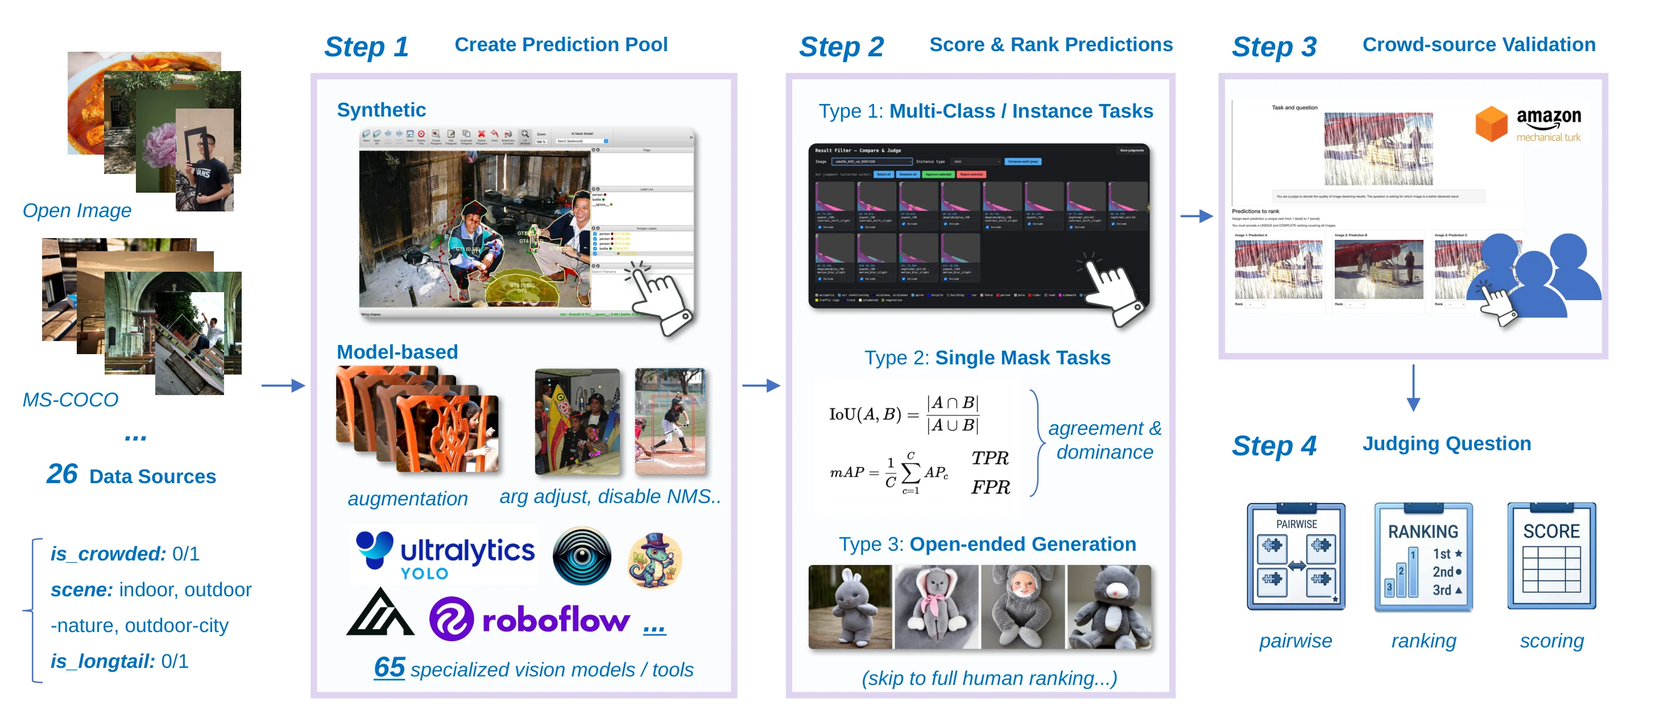
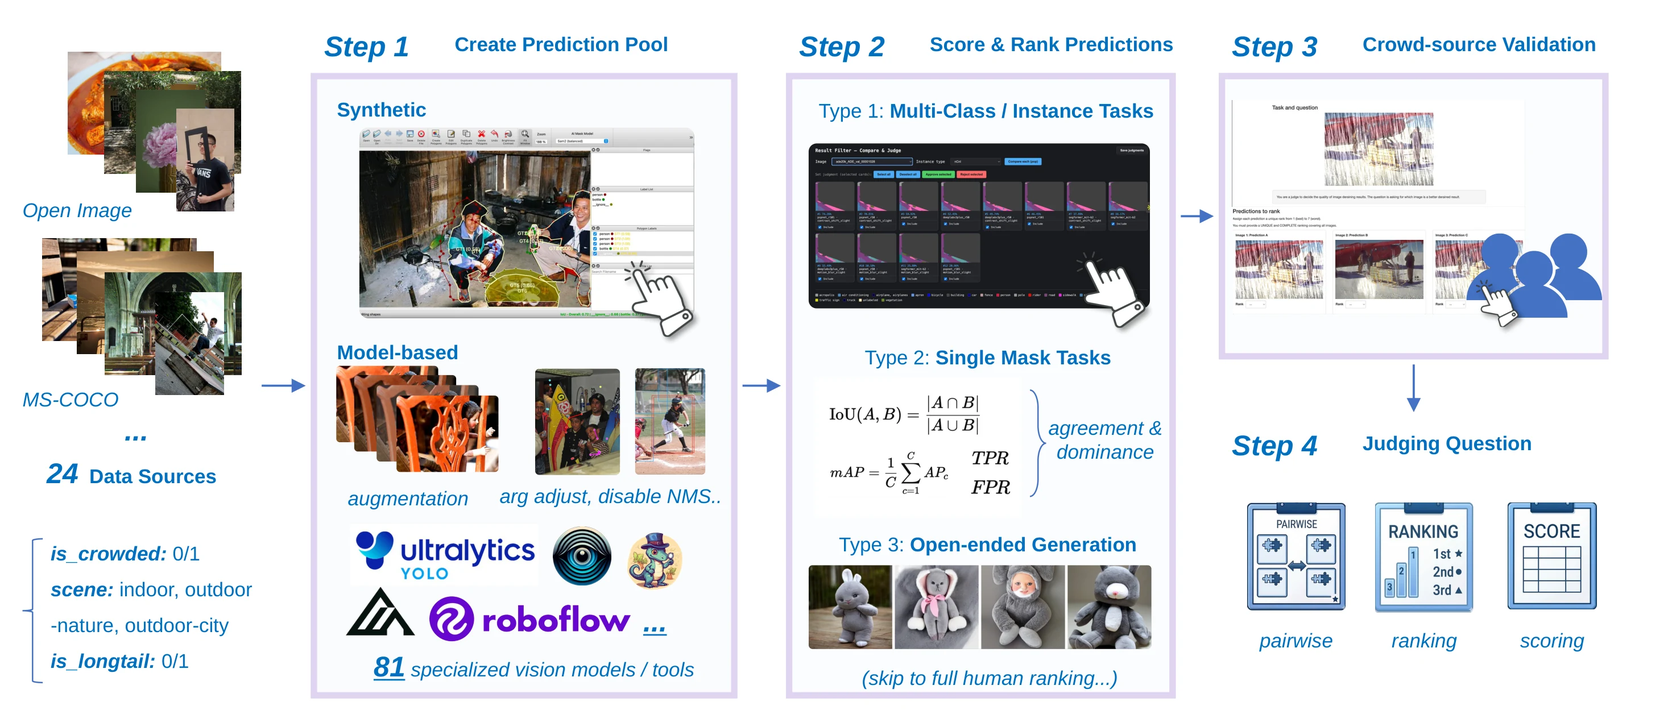
Update results, counts and figures to the current paper: 33 judges, 39 encodings, 1,750 instances / 5,259 candidates / 1,302 images / 24 datasets, encoding order from the 11-judge encoding analysis, agent findings, pipeline figure

diff --git a/assets/results.js b/assets/results.js
@@ -1,85 +1,74 @@
-// Numbers transcribed from the paper (Table 3/13, Figure 5-7, Table 4-6, Table 14).
+// Numbers from the paper: leaderboard table (judge-analysis subset, 33 judges), Vision-Judge vs CV-Bench-with-tools correlation
+// (10 SpAgent controllers), Table S5 (task coverage, v5 release), encoding-ranking figure (encoding-analysis subset, 11 judges).
 window.VJ_RESULTS = {
   cols: ['All', 'Det.', 'I-Seg', 'S-Seg', 'R-Seg', 'Kpt.', 'Depth', 'Gen.', 'Low-lvl'],
   leaderboard: [
-    ['Gemini 3.1 Pro', 'api', [0.734, 0.747, 0.694, 0.789, 0.742, 0.715, 0.516, 0.800, 0.768]],
-    ['Gemini 2.5 Pro', 'api', [0.711, 0.701, 0.703, 0.728, 0.759, 0.688, 0.508, 0.724, 0.706]],
-    ['GPT-5.4', 'api', [0.682, 0.799, 0.644, 0.670, 0.694, 0.598, 0.524, 0.763, 0.742]],
-    ['Qwen2.5-VL-72B', 'open', [0.662, 0.705, 0.573, 0.667, 0.686, 0.644, 0.587, 0.730, 0.773]],
-    ['Qwen2.5-VL-32B', 'open', [0.651, 0.628, 0.610, 0.631, 0.698, 0.633, 0.460, 0.770, 0.706]],
-    ['Gemini 2.5 Flash', 'api', [0.650, 0.658, 0.566, 0.656, 0.677, 0.628, 0.613, 0.743, 0.767]],
-    ['Claude Sonnet 4.6', 'api', [0.642, 0.656, 0.713, 0.742, 0.584, 0.617, 0.556, 0.651, 0.510]],
-    ['Claude Sonnet 4.5', 'api', [0.602, 0.590, 0.585, 0.616, 0.627, 0.622, 0.492, 0.625, 0.562]],
-    ['Qwen3-VL-8B', 'open', [0.597, 0.708, 0.591, 0.466, 0.580, 0.560, 0.524, 0.717, 0.686]],
-    ['Qwen3-VL-8B-Thinking', 'open', [0.585, 0.580, 0.575, 0.631, 0.533, 0.541, 0.429, 0.737, 0.701]],
-    ['Qwen2.5-VL-7B', 'open', [0.585, 0.594, 0.593, 0.577, 0.571, 0.508, 0.492, 0.664, 0.706]],
-    ['Qwen2-VL-2B', 'open', [0.579, 0.573, 0.642, 0.624, 0.527, 0.516, 0.460, 0.632, 0.603]],
-    ['Qwen2.5-VL-3B', 'open', [0.578, 0.521, 0.632, 0.649, 0.545, 0.454, 0.429, 0.757, 0.644]],
-    ['InternVL3-8B', 'open', [0.557, 0.597, 0.559, 0.507, 0.522, 0.522, 0.476, 0.684, 0.644]],
-    ['LLaVA-OneVision-7B-OV', 'open', [0.557, 0.608, 0.591, 0.570, 0.616, 0.465, 0.524, 0.441, 0.500]],
-    ['Qwen2-VL-7B', 'open', [0.553, 0.646, 0.530, 0.459, 0.524, 0.489, 0.508, 0.711, 0.696]],
-    ['Mantis-8B', 'open', [0.552, 0.556, 0.596, 0.516, 0.551, 0.473, 0.413, 0.553, 0.680]],
-    ['Gemini 2.5 Flash-Lite', 'api', [0.552, 0.545, 0.515, 0.543, 0.554, 0.557, 0.524, 0.612, 0.620]],
-    ['LLaVA-OneVision-0.5B-SI', 'open', [0.552, 0.472, 0.624, 0.634, 0.576, 0.465, 0.429, 0.572, 0.490]],
-    ['LLaVA-OneVision-0.5B-OV', 'open', [0.547, 0.503, 0.600, 0.616, 0.557, 0.514, 0.587, 0.395, 0.521]],
-    ['Janus-Pro-7B', 'open', [0.547, 0.503, 0.603, 0.655, 0.549, 0.439, 0.444, 0.645, 0.500]],
-    ['InternVL3.5-8B', 'open', [0.544, 0.510, 0.533, 0.548, 0.547, 0.495, 0.460, 0.638, 0.655]],
-    ['Phi-4-multimodal', 'open', [0.536, 0.569, 0.648, 0.541, 0.588, 0.389, 0.429, 0.500, 0.402]],
-    ['InternVL-Chat-V1.1', 'open', [0.536, 0.556, 0.555, 0.588, 0.571, 0.410, 0.444, 0.592, 0.515]],
-    ['Janus-1.3B', 'open', [0.534, 0.493, 0.557, 0.632, 0.545, 0.474, 0.429, 0.612, 0.474]],
-    ['InternVL3.5-1B', 'open', [0.529, 0.507, 0.551, 0.487, 0.576, 0.465, 0.476, 0.605, 0.531]],
-    ['JanusFlow-1.3B', 'open', [0.527, 0.521, 0.573, 0.562, 0.524, 0.526, 0.429, 0.454, 0.485]],
-    ['Claude Haiku 4.5', 'api', [0.524, 0.545, 0.520, 0.563, 0.537, 0.492, 0.460, 0.526, 0.500]],
-    ['LLaVA-NeXT-Interleave-0.5B', 'open', [0.518, 0.531, 0.533, 0.545, 0.534, 0.462, 0.413, 0.533, 0.515]],
-    ['Cambrian-8B', 'open', [0.513, 0.500, 0.584, 0.385, 0.527, 0.490, 0.516, 0.540, 0.521]],
-    ['Janus-Pro-1B', 'open', [0.511, 0.497, 0.502, 0.584, 0.527, 0.478, 0.460, 0.546, 0.474]],
-    ['LLaVA-OneVision-7B-SI', 'open', [0.509, 0.594, 0.551, 0.430, 0.514, 0.476, 0.571, 0.408, 0.500]],
-    ['LLaVA-NeXT-Interleave-7B', 'open', [0.505, 0.535, 0.470, 0.430, 0.469, 0.476, 0.556, 0.730, 0.608]],
-    ['InternVL3-2B', 'open', [0.499, 0.573, 0.520, 0.387, 0.447, 0.465, 0.540, 0.638, 0.572]],
-    ['InternVL3-1B', 'open', [0.498, 0.443, 0.492, 0.416, 0.545, 0.508, 0.429, 0.664, 0.469]],
-    ['LLaVA-NeXT-Interleave-7B-DPO', 'open', [0.477, 0.545, 0.402, 0.387, 0.449, 0.465, 0.508, 0.684, 0.624]],
+    ["Gemini 3.8 Flash", 'api', [0.866, 0.867, 0.934, 0.888, 0.884, 0.852, 0.838, 0.898, 0.771]],
+    ["Gemini 3.1 Pro", 'api', [0.827, 0.833, 0.877, 0.884, 0.842, 0.753, 0.811, 0.854, 0.765]],
+    ["Gemini 3.5 Flash-Lite", 'api', [0.759, 0.733, 0.803, 0.763, 0.741, 0.679, 0.838, 0.840, 0.673]],
+    ["Qwen3.5 27B", 'open', [0.710, 0.650, 0.738, 0.667, 0.760, 0.642, 0.730, 0.806, 0.686]],
+    ["Qwen3-VL 32B", 'open', [0.700, 0.683, 0.689, 0.622, 0.623, 0.679, 0.784, 0.820, 0.699]],
+    ["Qwen2.5-VL 72B", 'open', [0.679, 0.667, 0.672, 0.590, 0.580, 0.617, 0.730, 0.820, 0.758]],
+    ["Qwen2.5-VL 32B", 'open', [0.666, 0.667, 0.648, 0.582, 0.609, 0.593, 0.784, 0.762, 0.680]],
+    ["Qwen3.5 35B-A3B", 'open', [0.664, 0.650, 0.689, 0.586, 0.657, 0.556, 0.757, 0.728, 0.693]],
+    ["Ovis2.5-9B", 'open', [0.663, 0.633, 0.705, 0.602, 0.602, 0.543, 0.784, 0.772, 0.667]],
+    ["Qwen3.5 9B", 'open', [0.649, 0.583, 0.648, 0.542, 0.591, 0.642, 0.730, 0.772, 0.686]],
+    ["Gemma 3 27B", 'open', [0.643, 0.583, 0.639, 0.550, 0.567, 0.605, 0.784, 0.786, 0.627]],
+    ["Qwen3.5 4B", 'open', [0.637, 0.650, 0.607, 0.562, 0.530, 0.630, 0.649, 0.772, 0.699]],
+    ["Gemma 3 12B", 'open', [0.631, 0.567, 0.541, 0.574, 0.551, 0.654, 0.757, 0.733, 0.673]],
+    ["Qwen3-VL 8B", 'open', [0.626, 0.483, 0.648, 0.574, 0.567, 0.593, 0.757, 0.762, 0.627]],
+    ["Qwen2.5-VL 7B", 'open', [0.624, 0.483, 0.566, 0.490, 0.536, 0.617, 0.838, 0.699, 0.765]],
+    ["MiniCPM-V 4.5", 'open', [0.620, 0.550, 0.590, 0.498, 0.565, 0.679, 0.730, 0.709, 0.641]],
+    ["Qwen3-VL 4B", 'open', [0.620, 0.567, 0.615, 0.538, 0.491, 0.593, 0.784, 0.733, 0.641]],
+    ["Qwen3-VL 30B-A3B", 'open', [0.617, 0.567, 0.590, 0.514, 0.586, 0.519, 0.703, 0.801, 0.654]],
+    ["Kimi-VL-A3B", 'open', [0.609, 0.583, 0.566, 0.502, 0.533, 0.506, 0.865, 0.699, 0.614]],
+    ["Qwen2-VL-7B", 'open', [0.605, 0.583, 0.516, 0.502, 0.485, 0.568, 0.811, 0.684, 0.693]],
+    ["LLaVA-OneVision 1.5-8B", 'open', [0.589, 0.500, 0.590, 0.546, 0.509, 0.519, 0.784, 0.689, 0.575]],
+    ["InternVL3.5 4B", 'open', [0.573, 0.517, 0.582, 0.546, 0.546, 0.568, 0.514, 0.680, 0.634]],
+    ["Qwen2.5-VL 3B", 'open', [0.548, 0.567, 0.525, 0.502, 0.488, 0.506, 0.541, 0.665, 0.595]],
+    ["Qwen3.5 2B", 'open', [0.548, 0.417, 0.631, 0.502, 0.546, 0.519, 0.595, 0.617, 0.556]],
+    ["LLaVA-NeXT-Interleave-7B", 'open', [0.547, 0.517, 0.500, 0.482, 0.478, 0.481, 0.730, 0.670, 0.516]],
+    ["Qwen3-VL 2B", 'open', [0.543, 0.533, 0.525, 0.486, 0.528, 0.506, 0.568, 0.646, 0.556]],
+    ["Gemma 3 4B", 'open', [0.538, 0.483, 0.607, 0.474, 0.488, 0.494, 0.595, 0.631, 0.529]],
+    ["Qwen3.5 0.8B", 'open', [0.519, 0.517, 0.516, 0.498, 0.499, 0.605, 0.486, 0.549, 0.484]],
+    ["LLaVA-OneVision 0.5B", 'open', [0.506, 0.500, 0.500, 0.502, 0.509, 0.469, 0.541, 0.505, 0.523]],
+    ["LLaVA-OneVision 7B", 'open', [0.500, 0.483, 0.484, 0.502, 0.501, 0.519, 0.486, 0.519, 0.503]],
+    ["Janus-1.3B", 'open', [0.498, 0.533, 0.500, 0.474, 0.459, 0.543, 0.514, 0.461, 0.497]],
+    ["InternVL3.5 2B", 'open', [0.487, 0.400, 0.484, 0.542, 0.475, 0.506, 0.405, 0.578, 0.510]],
+    ["JanusFlow-1.3B", 'open', [0.484, 0.500, 0.467, 0.450, 0.517, 0.531, 0.405, 0.490, 0.510]],
   ],
   corr: {
-    rows: ['All', 'Detection', 'I-Seg', 'S-Seg', 'R-Seg', 'Keypoint', 'Depth', 'Gen.', 'Low-lvl'],
-    cols: ['Overall', 'Count', 'Relation', 'Depth', 'Distance'],
-    pearson: [[0.55, 0.51, 0.59, 0.50, 0.49], [0.64, 0.68, 0.58, 0.56, 0.63], [-0.05, -0.08, 0.03, -0.03, -0.09], [-0.11, -0.16, -0.03, -0.09, -0.13],
-              [0.29, 0.28, 0.29, 0.23, 0.31], [0.56, 0.51, 0.57, 0.53, 0.48], [0.17, 0.32, 0.10, 0.18, 0.02], [0.64, 0.58, 0.66, 0.60, 0.58], [0.84, 0.79, 0.85, 0.76, 0.76]],
-    spearman: [[0.56, 0.55, 0.56, 0.47, 0.51], [0.63, 0.67, 0.56, 0.51, 0.63], [-0.02, -0.05, -0.02, 0.03, -0.06], [-0.12, -0.14, -0.09, -0.09, -0.13],
-               [0.21, 0.25, 0.17, 0.19, 0.26], [0.52, 0.51, 0.52, 0.47, 0.46], [0.17, 0.28, 0.10, 0.18, 0.01], [0.74, 0.69, 0.74, 0.70, 0.64], [0.87, 0.80, 0.87, 0.76, 0.77]],
+    rows: ["All", "Detection", "I-Seg", "S-Seg", "R-Seg", "Keypoint", "Depth", "Gen.", "Low-lvl"],
+    cols: ["Overall", "Count", "Relation", "Depth", "Distance"],
+    pearson: [[0.90, 0.84, 0.92, 0.79, 0.87], [0.32, 0.24, 0.37, 0.27, 0.33], [0.77, 0.69, 0.76, 0.77, 0.74], [0.71, 0.69, 0.66, 0.74, 0.64], [0.64, 0.54, 0.64, 0.68, 0.62], [0.51, 0.41, 0.57, 0.34, 0.65], [0.83, 0.87, 0.82, 0.69, 0.77], [0.98, 0.91, 0.96, 0.92, 0.94], [0.72, 0.67, 0.84, 0.55, 0.70]],
+    spearman: [[0.93, 0.87, 0.96, 0.86, 0.89], [-0.04, 0.04, 0.18, 0.12, 0.03], [0.82, 0.71, 0.90, 0.80, 0.81], [0.64, 0.64, 0.68, 0.63, 0.56], [0.56, 0.52, 0.65, 0.48, 0.53], [0.55, 0.46, 0.60, 0.29, 0.72], [0.78, 0.72, 0.83, 0.64, 0.76], [0.98, 0.95, 0.95, 0.88, 0.96], [0.75, 0.64, 0.89, 0.63, 0.73]],
   },
   coverage: [
-    ["Object Detection", "Model-based + synthetic (error-typed)", 135, 347, 59, "COCO, OpenImages", "conditional-DETR-R50, DETR-R50, Grounding-DINO, YOLOS-tiny, YOLOv8s; 7 synthetic error types"],
-    ["Instance Seg.", "Synthetic (error-typed)", 230, 517, 49, "COCO, LVIS, Cityscapes", "rule-based / LabelMe-crafted failure cases"],
-    ["Instance Seg.", "Model-based", 217, 493, 217, "COCO, LVIS, Cityscapes", "BoundaryFormer, Cascade/Mask R-CNN, DETR-panoptic, DiffusionInst, FastInst, Mask2Former, MaskFormer, PointRend, ViTDet, X-Paste"],
-    ["Semantic Seg.", "Synthetic + model-based (error-typed)", 218, 795, 117, "Cityscapes, ADE20K", "DeepLabV3+ (R50/R101), PSPNet (R50/R101), SegFormer-MiT-B2"],
-    ["Pose Estimation", "Model-based + synthetic (error-typed)", 114, 301, 114, "COCO, COCO-WholeBody, MPII", "DWPose; drop / duplicate / jitter / miss / mixed perturbations"],
-    ["Referring Seg.", "Synthetic (error-typed)", 213, 897, 107, "gRefCOCO", "rule-based / LabelMe-crafted failure cases"],
-    ["Referring Seg.", "Model-based", 303, 909, 303, "gRefCOCO", "CLIPSeg, CLIPSeg+SAM, GroundingDINO+SAM, HyperSeg, LISA, OWLv2+SAM, UniCom"],
-    ["Depth Estimation", "Model-based", 185, 426, 185, "NYU Depth v2", "Depth-Anything v1/v2 (S/B/L), DPT-BEiT (B-384, L-512)"],
-    ["T2I Generation", "Model-based", 45, 206, 1, "HPDv2, ImageRewardDB", "human-preference rankings; Gemini-3-Pro-Image"],
+    ["Object Detection", "Model-based + synthetic (error-typed)", 120, 304, 52, "COCO, OpenImages", "conditional-DETR-R50, DETR-R50, Grounding-DINO, YOLOS-tiny, YOLOv8s; synthetic error types"],
+    ["Instance Seg.", "Synthetic (error-typed)", 205, 462, 48, "COCO, LVIS, Cityscapes", "rule-based / LabelMe-crafted failure cases"],
+    ["Instance Seg.", "Model-based", 195, 444, 195, "COCO, LVIS, Cityscapes", "BoundaryFormer, Cascade/Mask R-CNN, DiffusionInst, FastInst, PointRend, ViTDet, X-Paste"],
+    ["Semantic Seg.", "Synthetic + model-based (error-typed)", 216, 799, 113, "Cityscapes, ADE20K", "DeepLabV3+, PSPNet, SegFormer-MiT-B2"],
+    ["Keypoint Estimation", "Model-based + synthetic (error-typed)", 126, 366, 126, "COCO, COCO-WholeBody, MPII", "DWPose; drop / duplicate / jitter / miss / mixed perturbations"],
+    ["Referring Seg.", "Synthetic (error-typed)", 149, 617, 76, "gRefCOCO", "rule-based / LabelMe-crafted failure cases"],
+    ["Referring Seg.", "Model-based", 251, 737, 251, "gRefCOCO", "CLIPSeg, CLIPSeg+SAM, GroundingDINO+SAM, HyperSeg, LISA, OWLv2+SAM, UniCom"],
+    ["Depth Estimation", "Model-based", 133, 292, 133, "NYU Depth v2", "Depth-Anything v1/v2, DPT-BEiT"],
+    ["T2I Generation", "Model-based", 41, 192, 0, "HPDv2, ImageRewardDB", "human-preference rankings; Gemini-3-Pro-Image"],
     ["Controllable Gen.", "Model-based", 15, 67, 15, "ImageNet, COCO, NYU Depth v2", "FLUX, FLUX-LoRA, SD1.5, T2I-Adapter, UniCon, Uni-ControlNet, Gemini-3-Pro-Image"],
-    ["Editing", "Model-based", 57, 248, 57, "EditBench", "Any2Pix, HIVE, iEdit, Instruct-Diffusion, InstructPix2Pix, MagicBrush, MGIE, Gemini-3-Pro-Image"],
-    ["Inpainting", "Model-based", 17, 68, 17, "PIPE, CelebA-HQ, Places2", "DreamShaper, FLUX-ControlNet, FLUX-Fill, LaMa, RePaint, SD1.5, SD-ControlNet, SDXL, SDXL-Turbo, Gemini-3-Pro-Image"],
-    ["Deblur", "Model-based", 1, 3, 1, "GoPro", "DeepRFT, GT"],
-    ["Derain", "Model-based", 103, 299, 103, "DDN, DID, Rain200H", "DRS, Deraining, UDR"],
+    ["Editing", "Model-based", 55, 238, 52, "EditBench", "Any2Pix, HIVE, iEdit, Instruct-Diffusion, InstructPix2Pix, MagicBrush, MGIE, Gemini-3-Pro-Image"],
+    ["Inpainting", "Model-based", 17, 67, 17, "PIPE, CelebA-HQ, Places2", "DreamShaper, FLUX-ControlNet, FLUX-Fill, LaMa, SD1.5, SD-ControlNet, SDXL, SDXL-Turbo, Gemini-3-Pro-Image"],
+    ["Deblur", "Model-based", 28, 102, 28, "GoPro", "DeepRFT (GoPro / DPDD), LoFormer, Restormer"],
+    ["Derain", "Model-based", 103, 316, 103, "DDN, DID, Rain200H", "DRS, Deraining, UDR"],
     ["Desnow", "Model-based", 46, 110, 46, "CSD, Snow100K", "ConvIR, Histoformer, OptinvSnowMaster, SnowMaster"],
     ["Super-Resolution", "Model-based", 50, 146, 50, "DIV2K, DRealSR", "BSRGAN, DVMSR, InvSR, OSEDiff, RLFN, SRFormer"],
   ],
 };
-// Recommended encoding order per task = Stage-I median pairwise accuracy across judges (encoding-analysis subset),
-// read from Figure 4 (semantic segmentation from Table 9). id = encoding id in the encoding table; null = no preview rendered here.
+// Recommended encoding order per task = median pairwise judging accuracy across the 11 judges of the encoding-analysis subset
+// (paper Fig. 5). id = encoding id in the explorer; null = no preview rendered here.
 window.VJ_REC = {
-  depth_estimation: [[97, 'Plasma colormap', .562], [98, 'Turbo colormap', .550], [99, 'Gray colormap', .532]],
-  object_detection: [[5, 'Text · [x1, y1, x2, y2]', .618], [1, 'Box only · overlay', .59], [3, 'Box + label · overlay', .585],
-                     [6, 'Text · [x, y, w, h]', .58], [4, 'Box + label · separate canvas', .57]],
-  instance_segmentation: [[17, 'Colour by instance', .565], [15, 'Overlay · labels · dashed box', .558], [23, 'Opacity 100%', .547],
-                          [31, 'Separate canvas (mask only)', .545], [14, 'No bounding box', .537], [9, 'Down-sampled text matrix', .535],
-                          [7, 'Down-sampled overlay', .535], [42, 'Text · polygon', .533], [8, 'Down-sampled separate', .533]],
-  semantic_segmentation: [[46, 'Down-sampled class-id text matrix', .555], [57, 'Separate canvas', .548], [50, 'Random palette', .518],
-                          [49, 'Overlay α=0.5 · labels', .500]],
-  referring_segmentation: [[74, 'Separate canvas', .62], [69, 'Contour only', .60], [66, 'Down-sampled separate', .59],
-                           [70, 'Fill + contour', .585], [65, 'Down-sampled overlay', .585], [68, 'Overlay + fill', .567],
-                           [80, 'Text · polygon', .53], [71, 'Opacity 100%', .53], [67, 'Text · down-sampled matrix', .53]],
-  keypoint: [[89, 'Skeleton · colour by instance', .555], [88, 'Same colour', .55], [95, 'Text · part-keyed JSON', .54],
-             [83, 'Points only', .535], [94, 'Text · flat list', .53], [92, 'Separate canvas', .52]],
+  depth_estimation: [[99, "Grayscale", 0.742], [97, "Plasma colormap", 0.742], [98, "Turbo colormap", 0.719]],
+  instance_segmentation: [[23, "Opaque overlay (α = 1)", 0.789], [31, "Masks on black image", 0.779], [17, "Per-instance colors", 0.772], [14, "Overlay without boxes", 0.768], [15, "Overlay, α = 0.5", 0.765], [null, "Binary grid on image", 0.740], [null, "Binary grid (text)", 0.734], [11, "Overlay without labels", 0.723], [null, "Binary grid on black image", 0.720], [42, "Polygon (text)", 0.671]],
+  keypoint: [[95, "Part-keyed JSON (text)", 0.725], [92, "Skeleton on black image", 0.725], [89, "Per-instance colors", 0.714], [94, "Flat coordinate list (text)", 0.670], [90, "Skeleton on image", 0.648], [88, "Single-color skeleton", 0.637], [83, "Joints only (no limbs)", 0.571]],
+  object_detection: [[3, "Labeled boxes on image", 0.767], [1, "Unlabeled boxes on image", 0.767], [5, "[x₁, y₁, x₂, y₂] (text)", 0.721], [4, "Boxes on black image", 0.709], [6, "[x, y, w, h] (text)", 0.651]],
+  referring_segmentation: [[69, "Outline only", 0.747], [74, "Mask on black image", 0.713], [70, "Filled mask + outline", 0.678], [68, "Overlay, α = 0.5", 0.661], [71, "Opaque overlay (α = 1)", 0.633], [67, "Binary grid (text)", 0.609], [66, "Binary grid on black image", 0.595], [65, "Binary grid on image", 0.595], [80, "Polygon (text)", 0.554]],
+  semantic_segmentation: [[49, "Overlay, α = 0.5", 0.594], [57, "Labeled mask on black image", 0.587], [null, "Class-ID grid (text)", 0.568], [null, "Class-ID grid on image", 0.516], [null, "Low-res mask on black image", 0.516]],
 };

diff --git a/index.html b/index.html
@@ -56,15 +56,15 @@
     <h2 class="kicker">TL;DR</h2>
     <p class="lead">Tool-using MLLM agents must <em>read</em> the outputs of vision tools (boxes, masks, keypoints, depth maps) before acting on them, and
       <b>how</b> a tool's output is encoded back into the model changes how well it is read: the best and worst encoding of the same prediction differ by
-      <b>10–20 pp</b> of judging accuracy. <b>Vision-Judge</b> sweeps 49 encodings with 36 MLLM judges and gives a <b>recommended encoding order for every task</b>,
-      which we then validate inside tool-using agents.</p>
+      up to <b>19 pp</b> of judging accuracy. <b>Vision-Judge</b> evaluates 33 MLLM judges, sweeps 39 encodings and gives a <b>recommended encoding order for every task</b>,
+      which we then test inside tool-using agents: judging accuracy predicts tool-use accuracy (<i>r</i> = 0.90), and encoding preferences carry over, in part model-specifically.</p>
     <div class="stats" id="stats">
-      <div class="stat"><span class="num" data-to="36">0</span><span class="lbl">MLLM judges</span></div>
-      <div class="stat"><span class="num" data-to="7">0</span><span class="lbl">task categories</span></div>
-      <div class="stat"><span class="num" data-to="1949">0</span><span class="lbl">ranked groups</span></div>
-      <div class="stat"><span class="num" data-to="5832">0</span><span class="lbl">ranked candidates</span></div>
-      <div class="stat"><span class="num" data-to="1441">0</span><span class="lbl">unique images</span></div>
-      <div class="stat"><span class="num" data-to="49">0</span><span class="lbl">answer encodings</span></div>
+      <div class="stat"><span class="num" data-to="33">0</span><span class="lbl">MLLM judges</span></div>
+      <div class="stat"><span class="num" data-to="8">0</span><span class="lbl">task families</span></div>
+      <div class="stat"><span class="num" data-to="1750">0</span><span class="lbl">ranked instances</span></div>
+      <div class="stat"><span class="num" data-to="5259">0</span><span class="lbl">ranked candidates</span></div>
+      <div class="stat"><span class="num" data-to="1302">0</span><span class="lbl">unique input images</span></div>
+      <div class="stat"><span class="num" data-to="39">0</span><span class="lbl">output encodings</span></div>
     </div>
   </div>
 </section>
@@ -73,7 +73,7 @@
   <div class="wrap">
     <h2 class="kicker">Main result</h2>
     <h3 class="title">Recommended encoding order, per task</h3>
-    <p class="desc">Encodings ranked by their <b>median pairwise judging accuracy across judges</b> on the controlled encoding-analysis subset (prompt, candidate pair and
+    <p class="desc">Encodings ranked by their <b>median pairwise judging accuracy across the 11 judges</b> of the controlled encoding-analysis subset (7,600 questions) (prompt, candidate pair and
       ground-truth winner held fixed; only the encoding changes). <b>①</b> is what we recommend feeding back to an MLLM for that tool; the bar shows the median, the dashed line chance (0.5).
       Click any row to open it in the explorer.</p>
     <div class="rec-grid" id="recGrid"></div>
@@ -84,8 +84,9 @@
   <div class="wrap">
     <h2 class="kicker">Interactive</h2>
     <h3 class="title">Encoding Explorer</h3>
-    <p class="desc">The encoding space is factorised as <span class="math">E = I × T × Z</span>: image-side variables, text-side variables, and the modality mix
-      (image-only, text-only, image + text). For each task a <b>base</b> encoding mirrors typical tool output, and each ablation changes one factor.
+    <p class="desc">An encoding has an optional visual part <span class="math">i ∈ I</span> and an optional textual part <span class="math">t ∈ T</span>, with at least one present:
+      <span class="math">E = (I ∪ {∅}) × (T ∪ {∅}) ∖ {(∅, ∅)}</span>, so the modality (image only, text only, image + text) follows from which parts are present.
+      Each encoding also fixes the instruction that tells the judge how to read it (palette, label placement, colormap, coordinate convention). For each task a <b>base</b> encoding mirrors typical tool output, and each ablation changes one factor.
       Pick a task and a candidate. The viewer <b>auto-stitches</b> through every encoding of the <em>same</em> prediction; switch to <b>Compare</b> and drag the seam to diff two encodings.
       All renders below come from the benchmark's own encoders.</p>
 
@@ -129,17 +130,17 @@
   <div class="wrap">
     <h2 class="kicker">From judge to agent</h2>
     <h3 class="title">Using the recommendations as a run-time formatter</h3>
-    <p class="desc">We plug the recommended encodings into the tool-output formatter of four tool-using agents (SpAgent, HuggingGPT, ViperGPT, ReVPT).
-      The ordering carries over where the tool is load-bearing, under four conditions.</p>
+    <p class="desc">Ten open-weight SpAgent controllers, and three controllers (Gemini 3.5 Flash-Lite, Gemini 3.8 Flash, Qwen2.5-VL-72B) in three tool-using frameworks
+      (SpAgent, ViperGPT, ReVPT), on CV-Bench rephrased, NYU depth pairs and COCO crowd counting.</p>
     <div class="rules">
-      <div class="rule"><span class="rtag">Depth</span><h4>Plasma › turbo › gray, with the legend in mind</h4>
-        <p>Where the depth tool changes the answer, the Stage-I order reproduces (84.4 / 82.0 / 80.2 vs. 73.6 without the tool). Avoid colour-named legends (turbo: “blue = near”) when the task's own markers are blue or red, or add one sentence saying markers carry no depth meaning.</p></div>
-      <div class="rule"><span class="rtag">Segmentation</span><h4>Pick by subtype, not by “segmentation”</h4>
-        <p>Instance identity (counting) favours compact text serialisations; referring questions favour the overlay family. A single segmentation recommendation would be wrong for one of the two.</p></div>
-      <div class="rule"><span class="rtag">Text</span><h4>Keep the coordinate convention</h4>
-        <p>A text encoding transfers only with its serialisation: the recommended <code>xyxy</code> is in image <b>pixel</b> coordinates. A normalised variant can behave like injecting nothing.</p></div>
-      <div class="rule"><span class="rtag">Visibility</span><h4>The output has to reach the controller</h4>
-        <p>Encoding is a second-order lever: it only matters when the rendered output is fed back into the controller's context and the tool is actually called.</p></div>
+      <div class="rule"><span class="rtag">Prediction</span><h4>Judging accuracy predicts tool-use accuracy</h4>
+        <p>Across 10 controllers, Vision-Judge accuracy correlates with CV-Bench accuracy with tools at <i>r</i> = 0.90 (&rho; = 0.93), and at <i>r</i> = 0.79&ndash;0.92 for every question type. Generation, depth and instance-segmentation judging track it most closely; detection judging least (<i>r</i> = 0.32).</p></div>
+      <div class="rule"><span class="rtag">Detection</span><h4>Preferences transfer, and can be model-specific</h4>
+        <p>The top judges prefer labelled boxes with text, and so do the Gemini agents (best in 4 of 6 controller&ndash;framework pairs; text-only costs up to 5.3 pts). Qwen2.5-VL-72B's own judging ranks <code>[x1, y1, x2, y2]</code> text first, and its agents agree (best with ReVPT, +4.4, and ViperGPT). For a controller that departs from the average, its own ranking is the better guide.</p></div>
+      <div class="rule"><span class="rtag">Ties</span><h4>A near-tie predicts no reliable winner</h4>
+        <p>Small vs. big detection labels (both .870) change agent accuracy by &minus;2.4 to +1.8 pts with no consistent sign; Turbo, Plasma and grayscale depth (.798 / .796 / .791) lie within 3 pts in 14 of 18 columns, and the winner changes with framework and benchmark.</p></div>
+      <div class="rule"><span class="rtag">Segmentation</span><h4>A judging gap need not become an agent gap</h4>
+        <p>Polygon text trails masks on black by 8.6 pts in judging, yet in SpAgent crowd counting the four instance encodings lie within 2.5 pts for every controller, within run-to-run spread.</p></div>
     </div>
   </div>
 </section>
@@ -148,7 +149,7 @@
   <div class="wrap">
     <h2 class="kicker">Benchmark</h2>
     <h3 class="title">Curation pipeline</h3>
-    <p class="desc">(1) A prediction pool is built from 26 data sources with 65 specialised vision models and tools, plus synthetic error-typed candidates.
+    <p class="desc">(1) A prediction pool is built from 24 data sources with 81 specialised vision models and tools, plus synthetic error-typed candidates.
       (2) Candidates are scored and ranked by agreement and dominance of task metrics; open-ended generation goes straight to human ranking.
       (3) Rankings are validated by crowd-sourced annotators. (4) Each ranked group becomes pairwise, ranking and scoring judging questions.</p>
     <figure class="pipeline-fig">
@@ -158,9 +159,9 @@
     <h3 class="title sm">Task coverage</h3>
     <div class="table-wrap">
       <table class="cov" id="covTable">
-        <thead><tr><th>Task</th><th>Candidates</th><th class="r"># Groups</th><th class="r"># Cand.</th><th class="r"># Img.</th><th>Data sources</th><th>Model zoo / perturbations</th></tr></thead>
+        <thead><tr><th>Task</th><th>Candidates</th><th class="r"># Inst.</th><th class="r"># Cand.</th><th class="r"># Img.</th><th>Data sources</th><th>Model zoo / perturbations</th></tr></thead>
         <tbody></tbody>
-        <tfoot><tr><td colspan="2"><b>Total</b></td><td class="r"><b>1,949</b></td><td class="r"><b>5,832</b></td><td class="r"><b>1,441</b></td><td colspan="2">unique images across tasks</td></tr></tfoot>
+        <tfoot><tr><td colspan="2"><b>Total</b></td><td class="r"><b>1,750</b></td><td class="r"><b>5,259</b></td><td class="r"><b>1,302</b></td><td colspan="2">unique input images across tasks (24 datasets)</td></tr></tfoot>
       </table>
     </div>
   </div>

diff --git a/assets/app.js b/assets/app.js
@@ -180,7 +180,7 @@
   const recGrid = $('#recGrid');
   D.tasks.forEach((t, ti) => {
     const rec = REC[t.key]; if (!rec) return;
-    const encs = t.candidates[0].encodings, lo = .45, hi = .65;
+    const encs = t.candidates[0].encodings, lo = .45, hi = .85;
     const card = document.createElement('div'); card.className = 'rec-card';
     card.innerHTML = `<div class="rec-h"><h4>${esc(t.title)}</h4><span class="small muted">${rec.length} encodings ranked</span></div>
       <ol class="rec-list">${rec.map((r, k) => {

diff --git a/README.md b/README.md
@@ -5,26 +5,26 @@
 🌐 **Project page:** https://anonymous-44kk.github.io/VisionJudge/ · 🤗 **Dataset:** https://huggingface.co/datasets/Anonymous-44kk/Vision-Judge
 
 Tool-using MLLM agents have to read the outputs of vision tools (boxes, masks, keypoints, depth maps) before acting on them.
-How that output is encoded back into the model matters: two encodings of the same prediction can differ by **10–20 pp** in judging accuracy.
-Vision-Judge sweeps **49 encodings** over **7 task categories** (1,949 ranked groups, 5,832 candidates, 1,441 images) with **36 MLLM judges**. For each task it gives a recommended encoding order, which we then validate inside tool-using agents.
+How that output is encoded back into the model matters: two encodings of the same prediction can differ by up to **19 pp** in judging accuracy.
+Vision-Judge evaluates **33 MLLM judges** over **8 task families** (1,750 ranked instances, 5,259 candidates, 1,302 input images from 24 datasets) and sweeps **39 encodings**. For each task it gives a recommended encoding order, which we then test inside tool-using agents.
 
 ## Recommended encoding order
 
-The table ranks encodings by median pairwise judging accuracy across judges, on the controlled encoding-analysis subset. **Bold** marks the top encoding and *(base)* marks the typical tool output.
+The table ranks encodings by median pairwise judging accuracy across the 11 judges of the controlled encoding-analysis subset (7,600 questions). **Bold** marks the top encoding and *(base)* marks the typical tool output.
 
 | Task | Recommended order (median accuracy) |
 |---|---|
-| Object detection | **text `[x1,y1,x2,y2]` in pixels (.618)** › box-only overlay (.59) › box+label overlay *(base)* (.585) › text `[x,y,w,h]` (.58) › separate canvas (.57) |
-| Instance segmentation | **colour by instance (.565)** › overlay + labels + dashed box *(base)* (.558) › opacity 100% (.547) › separate canvas (.545) › no box (.537) › down-sampled text / overlay (.535) › polygon text (.533) |
-| Semantic segmentation | **down-sampled class-id text matrix (.555)** › separate canvas (.548) › random palette (.518) › overlay α=0.5 + labels *(base)* (.500) |
-| Referring segmentation | **separate canvas (.62)** › contour only (.60) › down-sampled separate (.59) › fill + contour (.585) › down-sampled overlay (.585) › overlay + fill *(base)* (.567) › polygon text / opacity 100% / text matrix (.53) |
-| Keypoint | **skeleton, colour by instance *(base)* (.555)** › same colour (.55) › part-keyed JSON (.54) › points only (.535) › flat list (.53) › separate canvas (.52) |
-| Depth | **plasma *(base)* (.562)** › turbo (.550) › gray (.532) |
+| Object detection | **Labeled boxes on image *(base)* (.767)** › Unlabeled boxes on image (.767) › [x₁, y₁, x₂, y₂] (text) (.721) › Boxes on black image (.709) › [x, y, w, h] (text) (.651) |
+| Instance segmentation | **Opaque overlay (α = 1) (.789)** › Masks on black image (.779) › Per-instance colors (.772) › Overlay without boxes (.768) › Overlay, α = 0.5 *(base)* (.765) › Binary grid on image (.740) › Binary grid (text) (.734) › Overlay without labels (.723) › Binary grid on black image (.720) › Polygon (text) (.671) |
+| Semantic segmentation | **Overlay, α = 0.5 *(base)* (.594)** › Labeled mask on black image (.587) › Class-ID grid (text) (.568) › Class-ID grid on image (.516) › Low-res mask on black image (.516) |
+| Referring segmentation | **Outline only (.747)** › Mask on black image (.713) › Filled mask + outline (.678) › Overlay, α = 0.5 *(base)* (.661) › Opaque overlay (α = 1) (.633) › Binary grid (text) (.609) › Binary grid on black image (.595) › Binary grid on image (.595) › Polygon (text) (.554) |
+| Keypoint | **Part-keyed JSON (text) (.725)** › Skeleton on black image (.725) › Per-instance colors *(base)* (.714) › Flat coordinate list (text) (.670) › Skeleton on image (.648) › Single-color skeleton (.637) › Joints only (no limbs) (.571) |
+| Depth | **Grayscale (.742)** › Plasma colormap *(base)* (.742) › Turbo colormap (.719) |
 
-When you use these encodings as an agent's tool-output formatter:
-- keep the coordinate convention of text encodings (pixel `xyxy`);
-- avoid colour-named depth legends when the task's own markers use those colours;
-- make sure the rendered output actually reaches the controller.
+In tool-using agents (SpAgent, ViperGPT, ReVPT):
+- Vision-Judge accuracy predicts accuracy on CV-Bench with tools (r = 0.90 across 10 controllers);
+- encoding preferences transfer where judging separates encodings clearly, and can be model-specific: a controller whose own judging departs from the average (Qwen2.5-VL-72B prefers `[x1, y1, x2, y2]` text for detection) follows its own preference;
+- near-ties in judging (label size, depth colormaps) give no reliable agent difference.
 
 ## Repository
 
